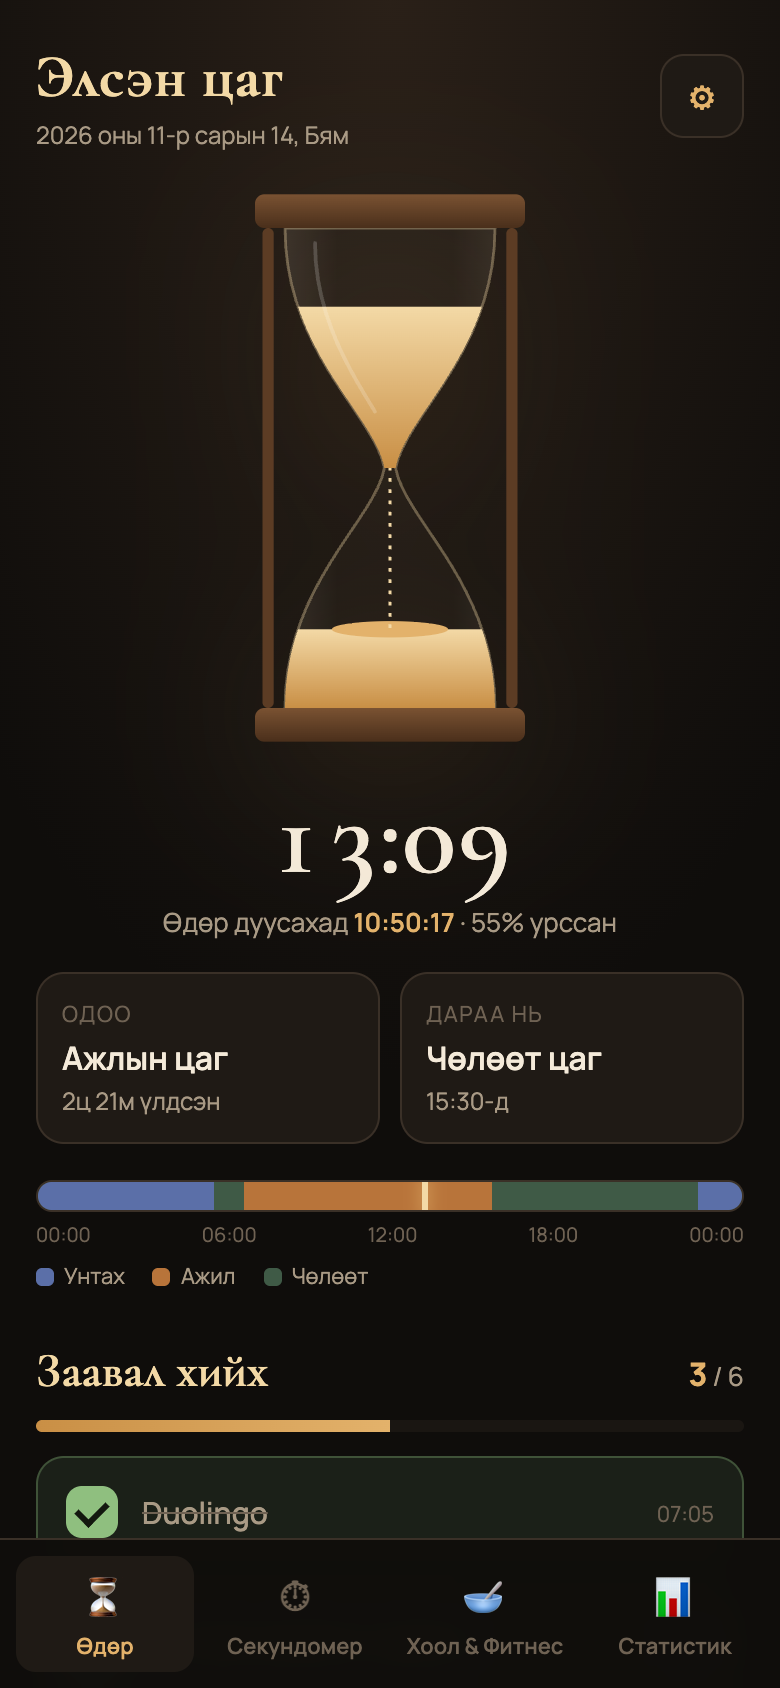
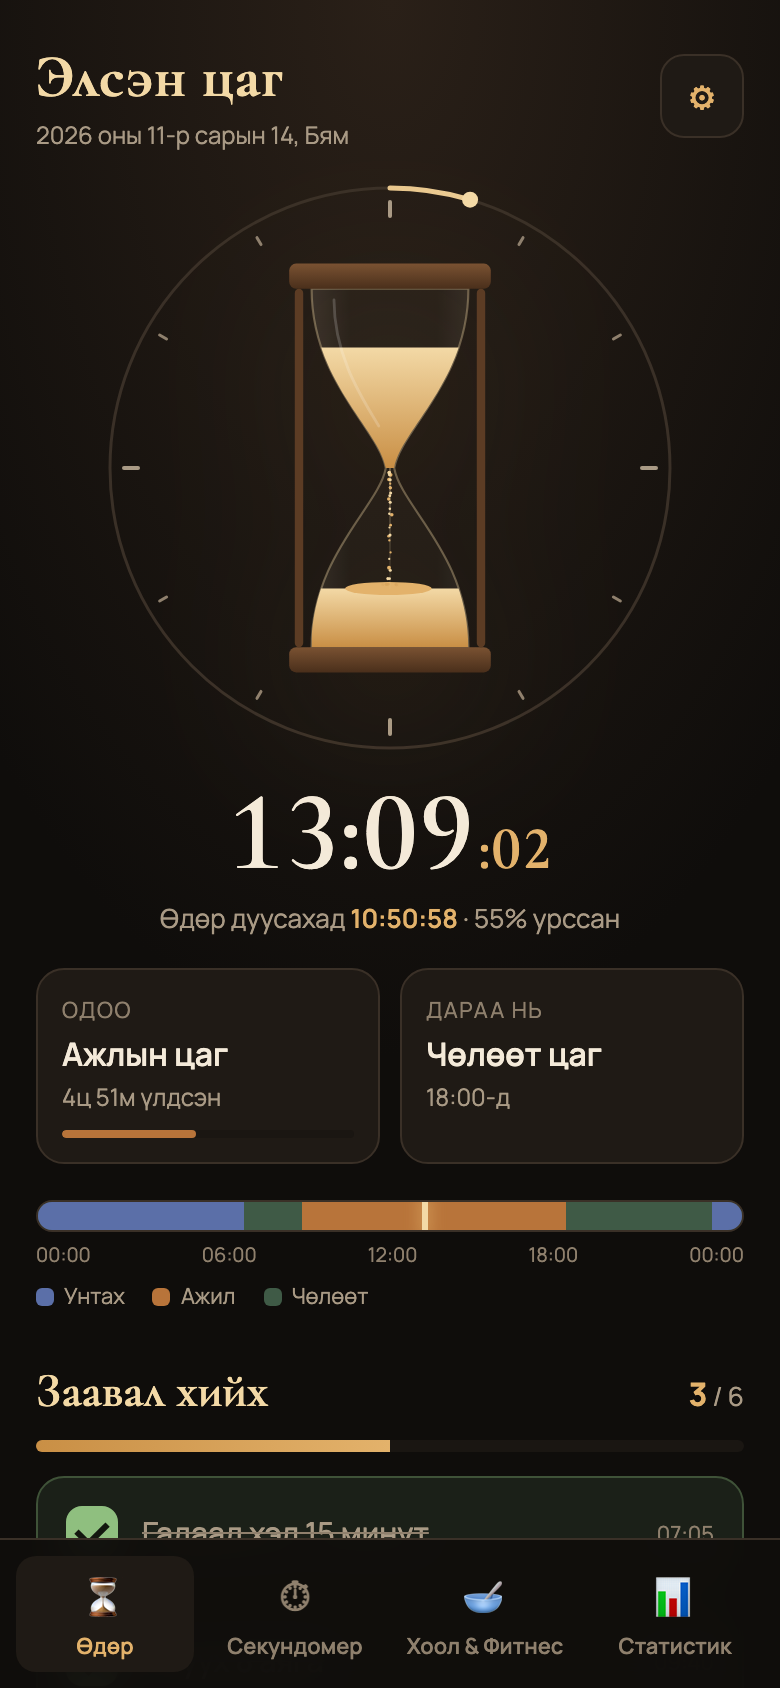
Хувийн хуваарийг жишээгээр солив, Google Fonts зөвхөн claude.ai дотор
- Өгөгдмөл цагийн хуваарь, даалгаврыг ерөнхий жишээ болгов (23:00–07:00 унтах, 09:00–18:00 ажил)
- Суулгасан апп, GitHub Pages хэзээ ч Google руу хандахгүй: шрифтийн нөөц зөвхөн өөр хуудсан дотор (claude.ai) ачаалагдана
- Дэлгэцийн зургийг зохиомол жишээ өгөгдлөөр дахин авав
- Сануулгын тест: шинэ headless Chromium жинхэнэ мэдэгдлийг татгалздаг тул бичиж авах stub болгов

diff --git a/index.html b/index.html
@@ -272,6 +272,12 @@ select{background:var(--card);border:1px solid var(--line);color:var(--ink);bord
 .mv button:disabled{opacity:.3;cursor:default}
 .treset{flex:none;width:36px;height:36px;border-radius:10px;border:1px solid var(--line);background:none;color:var(--mute);font-size:17px;cursor:pointer;margin-right:-4px}
 .switch{display:flex;align-items:center;justify-content:space-between;gap:10px;padding:10px 2px;font-size:14px;color:var(--mute);cursor:pointer}
+.shiftinfo{display:flex;justify-content:space-between;gap:8px;flex-wrap:wrap;font-size:12px;color:var(--mute);margin-top:8px}
+.shiftinfo b{color:var(--sand);font-weight:600}
+.shbox{background:var(--card);border:1px solid var(--line);border-radius:12px;padding:10px;margin-bottom:8px}
+.shbox .edit{display:flex;gap:8px;margin-bottom:8px}
+.shbox .row{margin-bottom:6px}
+input[type=date]{background:var(--card);border:1px solid var(--line);color:var(--ink);border-radius:10px;padding:9px 10px;font:inherit;font-size:14px;color-scheme:dark;min-height:38px}
 .switch small.hint{display:block;font-size:11px;color:var(--dim);margin-top:2px}
 .switch input{position:absolute;opacity:0;width:1px;height:1px}
 .switch i{flex:none;width:44px;height:26px;border-radius:13px;background:var(--line);position:relative;transition:.2s}
@@ -377,6 +383,7 @@ input[type=time]::-webkit-date-and-time-value{text-align:left}
 
   <div class="bar" id="bar"></div>
   <div class="ticks" id="ticks"></div>
+  <div class="shiftinfo" id="shiftInfo" hidden></div>
   <div class="legend">
     <span><i style="background:var(--sleep)"></i>Унтах</span>
     <span><i style="background:var(--work)"></i>Ажил</span>
@@ -484,8 +491,19 @@ input[type=time]::-webkit-date-and-time-value{text-align:left}
   <div class="panel" role="dialog" aria-modal="true" aria-labelledby="sheetTitle">
     <h3 id="sheetTitle" tabindex="-1">Тохиргоо</h3>
     <div class="row"><label>Өдөр эхлэх цаг</label><input type="time" id="dayStart"></div>
-    <div class="row"><label>Унтах</label><div class="pair"><input type="time" id="sleepS">–<input type="time" id="sleepE"></div></div>
-    <div class="row"><label>Ажил</label><div class="pair"><input type="time" id="workS">–<input type="time" id="workE"></div></div>
+    <label class="switch"><span>🔁 Ээлжээр ажилладаг <small class="hint">Унтах, ажлын цаг ээлжээр автоматаар солигдоно</small></span><input type="checkbox" id="shiftOn"><i aria-hidden="true"></i></label>
+    <div id="fixedSch">
+      <div class="row"><label>Унтах</label><div class="pair"><input type="time" id="sleepS">–<input type="time" id="sleepE"></div></div>
+      <div class="row"><label>Ажил</label><div class="pair"><input type="time" id="workS">–<input type="time" id="workE"></div></div>
+    </div>
+    <div id="shiftSec" hidden>
+      <div id="shiftList"></div>
+      <button class="btn" id="addShift">+ Ээлж нэмэх</button>
+      <div class="row" style="margin-top:12px"><label for="shiftEvery">Хэдэн хоногоор солигдох</label><div class="pair"><input type="number" id="shiftEvery" min="1" max="60" inputmode="numeric" style="width:70px">хоног</div></div>
+      <div class="row"><label for="shiftCur">Одоо явж буй ээлж</label><select id="shiftCur"></select></div>
+      <div class="row"><label for="shiftFrom">Энэ ээлж эхэлсэн өдөр</label><input type="date" id="shiftFrom"></div>
+      <div class="note" id="shiftNote"></div>
+    </div>
     <div class="sub">Заавал хийх зүйлс</div>
     <div id="editList"></div>
     <button class="btn" id="addTask">+ Нэмэх</button>
@@ -540,6 +558,16 @@ const isObj=o=>!!o&&typeof o==="object"&&!Array.isArray(o);
 ["dayStart","sleepS","sleepE","workS","workE"].forEach(k=>{if(!isHM(cfg[k]))cfg[k]=DEFAULT[k]});
 if(!Array.isArray(cfg.tasks)) cfg.tasks=DEFAULT.tasks;
 cfg.sandSound=cfg.sandSound===true;          // off unless turned on
+// Shift rotation: shifts take turns every `every` days; `cur` was running on day `from`.
+const SHIFT_DEFAULT=()=>({on:false,every:7,cur:0,from:"",list:[
+  {id:"s1",name:"Өглөөний ээлж",workS:"06:00",workE:"14:00",sleepS:"22:00",sleepE:"05:00"},
+  {id:"s2",name:"Оройн ээлж",workS:"14:00",workE:"22:00",sleepS:"00:00",sleepE:"08:00"},
+  {id:"s3",name:"Шөнийн ээлж",workS:"22:00",workE:"06:00",sleepS:"08:00",sleepE:"15:00"}]});
+{ const d=SHIFT_DEFAULT(), sh=isObj(cfg.shifts)?cfg.shifts:{};
+  const list=Array.isArray(sh.list)?sh.list.filter(x=>isObj(x)&&typeof x.name==="string").map((x,i)=>({id:String(x.id||"s"+i),name:x.name,
+    workS:isHM(x.workS)?x.workS:"08:00",workE:isHM(x.workE)?x.workE:"17:00",sleepS:isHM(x.sleepS)?x.sleepS:"23:00",sleepE:isHM(x.sleepE)?x.sleepE:"07:00"})):d.list;
+  cfg.shifts={on:sh.on===true&&list.length>0,every:Math.max(1,Math.min(60,Math.round(+sh.every)||7)),list,
+    cur:Math.max(0,Math.min(list.length-1,Math.round(+sh.cur)||0)),from:/^\d{4}-\d\d-\d\d$/.test(sh.from)?sh.from:""}; }
 cfg.tasks=cfg.tasks.filter(t=>isObj(t)&&t.id!=null&&typeof t.name==="string").map(t=>{
   const m=/(\d+)\s*(минут|мин)/i.exec(t.name);
   const min=typeof t.min==="number"&&isFinite(t.min)?Math.max(0,Math.min(600,Math.round(t.min))):(m?Math.min(600,+m[1]):0);
@@ -582,10 +610,38 @@ function dayBounds(now){
 // Instant of wall-clock minute `min` (may exceed 1440) counted from midnight of now's date.
 const atWall=(now,min)=>new Date(now.getFullYear(),now.getMonth(),now.getDate(),0,min);
 function inRange(m,s,e){return s<=e ? (m>=s&&m<e) : (m>=s||m<e)}
+// whole days between two day keys (UTC arithmetic: daylight saving can't shift it)
+const daysBetween=(a,b)=>{const p=k=>{const [y,m,d]=k.split("-").map(Number);return Date.UTC(y,m-1,d)};return Math.round((p(b)-p(a))/864e5)};
+const addDays=(k,n)=>{const d=dayDate(k);d.setDate(d.getDate()+n);return keyOfDate(d)};
+// Which shift runs on day k, which day of it this is, and when the next one starts.
+function shiftOn(k){
+  const S=cfg.shifts; if(!S.on||!S.list.length) return null;
+  const from=S.from||k, n=S.list.length, d=daysBetween(from,k), blk=Math.floor(d/S.every);
+  const i=((S.cur+blk)%n+n)%n;
+  return {i,shift:S.list[i],day:d-blk*S.every+1,every:S.every,nextKey:addDays(from,(blk+1)*S.every),next:S.list[(i+1)%n]};
+}
+// The sleep/work hours in force on day k: the running shift's, or the fixed ones.
+let schMemo={k:null,v:null};
+function sch(k){
+  k=k||dayKey(new Date());
+  if(schMemo.k===k&&schMemo.c===cfg) return schMemo.v;
+  const sh=shiftOn(k), v=sh?sh.shift:cfg;
+  schMemo={k,c:cfg,v:{sleepS:toMin(v.sleepS),sleepE:toMin(v.sleepE),workS:toMin(v.workS),workE:toMin(v.workE)}};
+  return schMemo.v;
+}
 function blockAt(m){
-  if(inRange(m,toMin(cfg.sleepS),toMin(cfg.sleepE))) return "sleep";
-  if(inRange(m,toMin(cfg.workS),toMin(cfg.workE))) return "work";
+  const s=sch();
+  if(inRange(m,s.sleepS,s.sleepE)) return "sleep";
+  if(inRange(m,s.workS,s.workE)) return "work";
   return "free";
+}
+function renderShiftInfo(){
+  const el=$("shiftInfo"), k=dayKey(new Date()), sh=shiftOn(k);
+  el.hidden=!sh; if(!sh) return;
+  const nd=dayDate(sh.nextKey);
+  el.innerHTML=`<span>🔁 <b></b> · ${sh.day}/${sh.every} дэх өдөр</span><span>${MONTHS[nd.getMonth()]}ын ${nd.getDate()} (${WD[nd.getDay()]})-аас <b></b></span>`;
+  const bs=el.querySelectorAll("b"); bs[0].textContent=sh.shift.name; bs[1].textContent=sh.next.name;
+  if(sh.next===sh.shift) el.lastChild.hidden=true;
 }
 const NAMES={sleep:"Унтах цаг",work:"Ажлын цаг",free:"Чөлөөт цаг"};
 
@@ -761,6 +817,7 @@ addEventListener("pointerdown",()=>{if(cfg.sandSound&&!sandSrc){unlockAudio(); s
 
 /* ---------- timeline bar ---------- */
 function drawBar(){
+  renderShiftInfo();
   const bar=$("bar"); bar.innerHTML="";
   const ds=toMin(cfg.dayStart);
   let start=0, cur=blockAt(ds);
@@ -1006,7 +1063,7 @@ function tick(){
   $("date").textContent=`${n.getFullYear()} оны ${MONTHS[n.getMonth()]}ын ${n.getDate()}, ${WD[n.getDay()]}`;
   const k=dayKey(n);
   if(k!==lastKey){ // new day: hourglass flips, list resets
-    lastKey=k; renderTasks(); renderWeek(); flipGlass(); store.set("elsen_seen",k);
+    lastKey=k; drawBar(); renderTasks(); renderWeek(); flipGlass(); store.set("elsen_seen",k);
     if($("v-stat").classList.contains("on")&&typeof renderStats==="function"){statY=null; statSel=null; renderStats()}
   }
 }
@@ -1017,6 +1074,12 @@ function openSettings(){
   ["dayStart","sleepS","sleepE","workS","workE"].forEach(id=>$(id).value=cfg[id]);
   $("soundOn").checked=cfg.sound!==false;
   $("sandOn").checked=cfg.sandSound;
+  shDraft=JSON.parse(JSON.stringify(cfg.shifts));
+  if(!shDraft.from){shDraft.from=dayKey(new Date()); if(shDraft.every===7) shDraft.from=addDays(shDraft.from,-((dayDate(shDraft.from).getDay()+6)%7))}
+  // show the shift that is running today, counted from today
+  const live=shiftOn(dayKey(new Date()));
+  if(live){shDraft.cur=live.i; shDraft.from=addDays(dayKey(new Date()),1-live.day)}
+  renderShiftEdit();
   draft=cfg.tasks.map(t=>({...t})); renderEdit();
   if(!$("sheet").classList.contains("on")){
     sheetY=window.scrollY; document.body.style.top=-sheetY+"px";
@@ -1067,6 +1130,9 @@ $("sheet").onclick=e=>{if(e.target.id==="sheet")closeSettings()};
 $("addTask").onclick=()=>{draft.push({id:"t"+Date.now(),name:"",min:0,rem:""});renderEdit();const ins=$("editList").querySelectorAll("input.nm");ins[ins.length-1].focus()};
 $("save").onclick=()=>{
   ["dayStart","sleepS","sleepE","workS","workE"].forEach(id=>{if($(id).value)cfg[id]=$(id).value});
+  shDraft.list=shDraft.list.filter(x=>x.name.trim()).map(x=>({...x,name:x.name.trim()}));
+  shDraft.on=shDraft.on&&shDraft.list.length>0; shDraft.cur=Math.min(shDraft.cur,Math.max(0,shDraft.list.length-1));
+  cfg.shifts=shDraft;
   cfg.tasks=draft.filter(t=>t.name.trim()).map(t=>({id:t.id,name:t.name.trim(),min:t.min||0,rem:t.rem||""}));
   cfg.sound=$("soundOn").checked;
   cfg.sandSound=$("sandOn").checked; if(cfg.sandSound) unlockAudio();
@@ -1074,6 +1140,39 @@ $("save").onclick=()=>{
   closeSettings(); drawBar(); renderTasks(); renderWeek(); tick(); sandSoundSync();
   toast("Хадгаллаа ✓");
 };
+
+/* ---------- shift editor ---------- */
+let shDraft=null;
+function renderShiftEdit(){
+  const S=shDraft;
+  $("shiftOn").checked=S.on; $("shiftSec").hidden=!S.on; $("fixedSch").hidden=S.on;
+  $("shiftEvery").value=S.every; $("shiftFrom").value=S.from;
+  const l=$("shiftList"); l.innerHTML="";
+  S.list.forEach((x,i)=>{
+    const b=document.createElement("div"); b.className="shbox";
+    b.innerHTML=`<div class="edit"><input type="text" class="nm" placeholder="Ээлжийн нэр" aria-label="Ээлжийн нэр"><button class="del" aria-label="Ээлж устгах">×</button></div>
+      <div class="row"><label>Ажил</label><div class="pair"><input type="time" data-f="workS" aria-label="Ажил эхлэх">–<input type="time" data-f="workE" aria-label="Ажил дуусах"></div></div>
+      <div class="row"><label>Унтах</label><div class="pair"><input type="time" data-f="sleepS" aria-label="Унтах">–<input type="time" data-f="sleepE" aria-label="Босох"></div></div>`;
+    const nm=b.querySelector(".nm"); nm.value=x.name; nm.oninput=e=>{x.name=e.target.value; renderShiftCur()};
+    b.querySelectorAll("input[type=time]").forEach(t=>{t.value=x[t.dataset.f]; t.onchange=t.oninput=e=>{if(isHM(e.target.value))x[t.dataset.f]=e.target.value}});
+    b.querySelector(".del").onclick=()=>{S.list.splice(i,1); if(S.cur>=S.list.length)S.cur=Math.max(0,S.list.length-1); renderShiftEdit()};
+    l.appendChild(b);
+  });
+  renderShiftCur();
+}
+function renderShiftCur(){
+  const S=shDraft, sel=$("shiftCur"); sel.innerHTML="";
+  S.list.forEach((x,i)=>{const o=document.createElement("option"); o.value=i; o.textContent=x.name||`${i+1}-р ээлж`; sel.appendChild(o)});
+  sel.value=S.cur;
+  const order=S.list.map(x=>x.name||"…").join(" → ");
+  $("shiftNote").textContent=S.list.length>1?`Дараалал: ${order} → … Жагсаалтын дарааллаар ${S.every} хоног тутам солигдоно.`:"Хоёр ба түүнээс дээш ээлж нэмнэ үү.";
+}
+$("shiftOn").onchange=e=>{shDraft.on=e.target.checked; if(shDraft.on&&!shDraft.list.length) shDraft.list=SHIFT_DEFAULT().list; renderShiftEdit()};
+$("addShift").onclick=()=>{shDraft.list.push({id:"s"+Date.now(),name:"",workS:"08:00",workE:"17:00",sleepS:"23:00",sleepE:"07:00"}); renderShiftEdit();
+  const ins=$("shiftList").querySelectorAll("input.nm"); ins[ins.length-1].focus()};
+$("shiftEvery").oninput=e=>{const v=parseInt(e.target.value,10); if(v>=1&&v<=60){shDraft.every=v; renderShiftCur()}};
+$("shiftCur").onchange=e=>{shDraft.cur=+e.target.value};
+$("shiftFrom").onchange=e=>{if(/^\d{4}-\d\d-\d\d$/.test(e.target.value)) shDraft.from=e.target.value};
 
 /* ---------- views (bottom nav) ---------- */
 /* Android back button / iOS edge swipe: Settings → closes, other tab → Day, Day → leaves the app.
